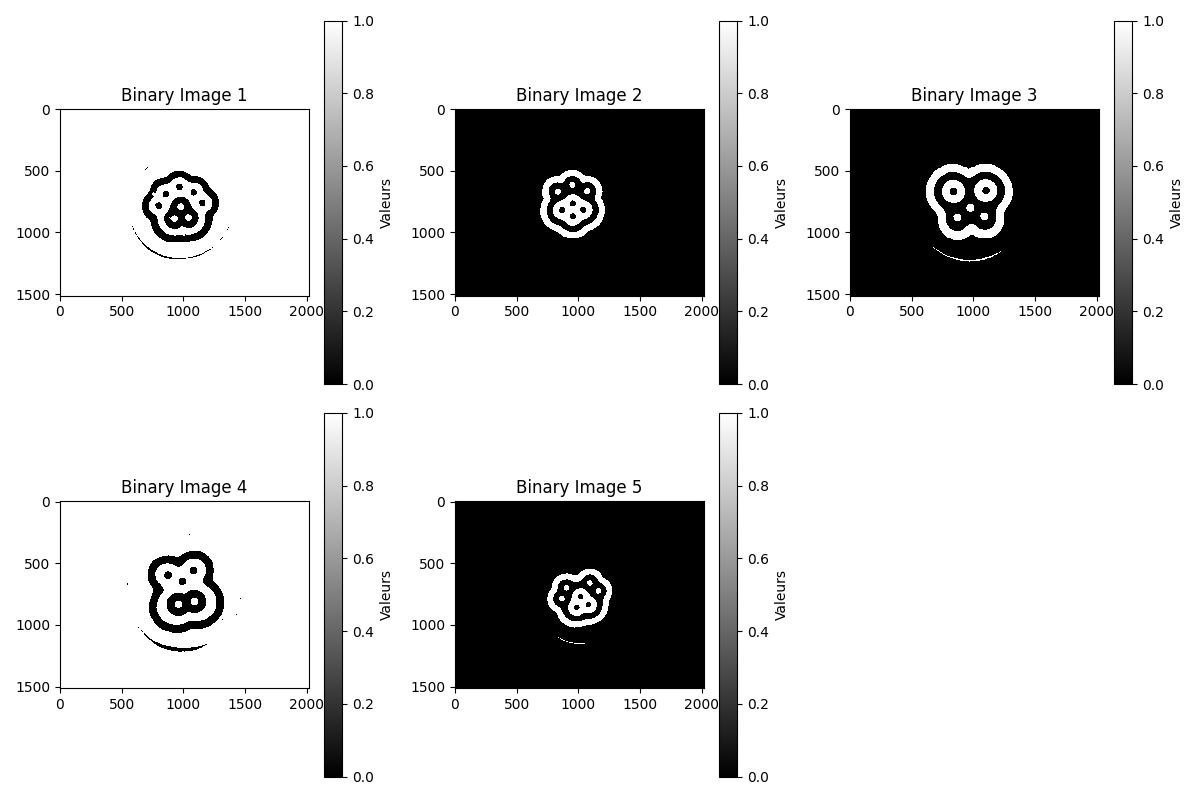
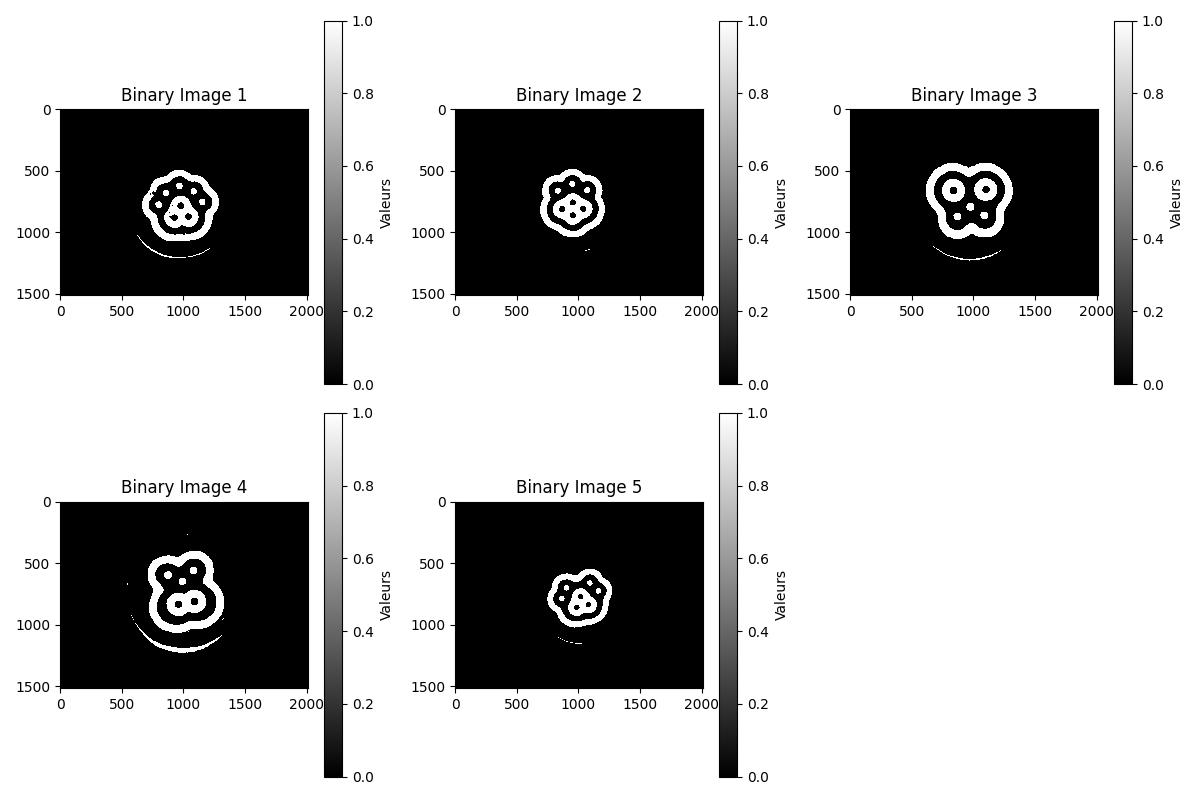
Adjance trees

diff --git a/tp2.py b/tp2.py
@@ -12,7 +12,6 @@ def loadImages(dir):
     Load toutes les images jpeg d'un directory dans un array
 
     :param dir: path du directory.
-    test
     """
 
     images_array = []
@@ -162,7 +161,7 @@ def plot_trees(trees, output_path):
         plt.title(f"Adjacency Tree for Image {i}")
 
     plt.tight_layout()
-    plt.savefig(os.path.join(output_path, "combined_trees.png"))
+    plt.savefig(os.path.join(output_path))
     plt.show()
 
 
@@ -459,12 +458,12 @@ def main():
     regions_images = []
 
     for i, image in enumerate(binary_images):
-        adjacency_tree, image_region = build_adjacency_tree(processed_img)
+        adjacency_tree, image_region = build_adjacency_tree(image)
         adjacency_trees.append(adjacency_tree)
         regions_images.append(image_region)
         print(f"Adjacency tree of image {i} done")
 
-    plot_region_images(adjacency_tree, os.path.join(output_dir, "combined_regions.png"))
+    plot_region_images(regions_images, os.path.join(output_dir, "combined_regions.png"))
     plot_trees(adjacency_trees, os.path.join(output_dir, "combined_trees.png"))
 
     # pour en faire 1 a la fois
